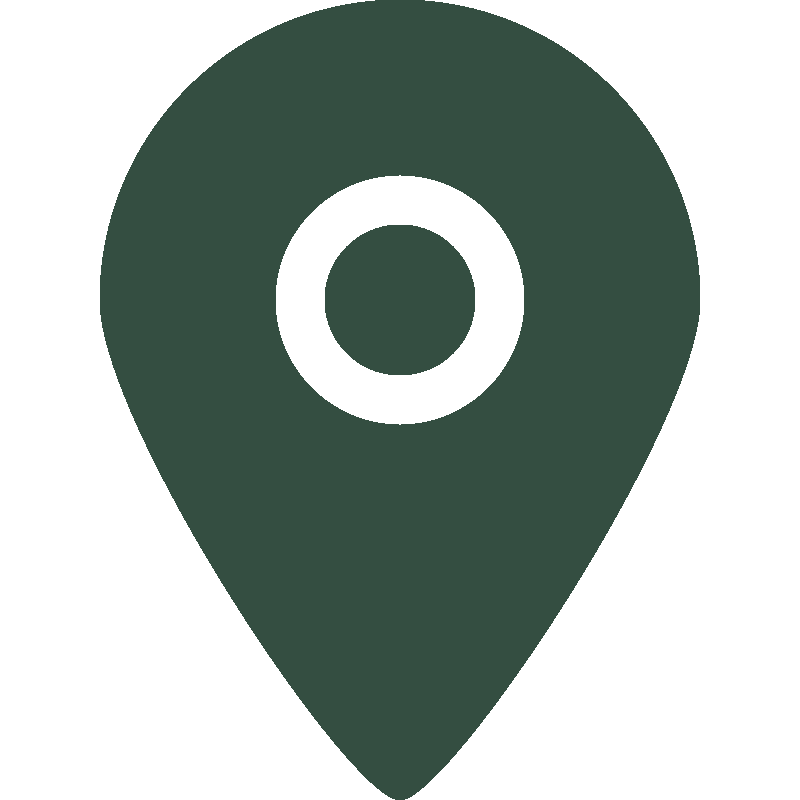
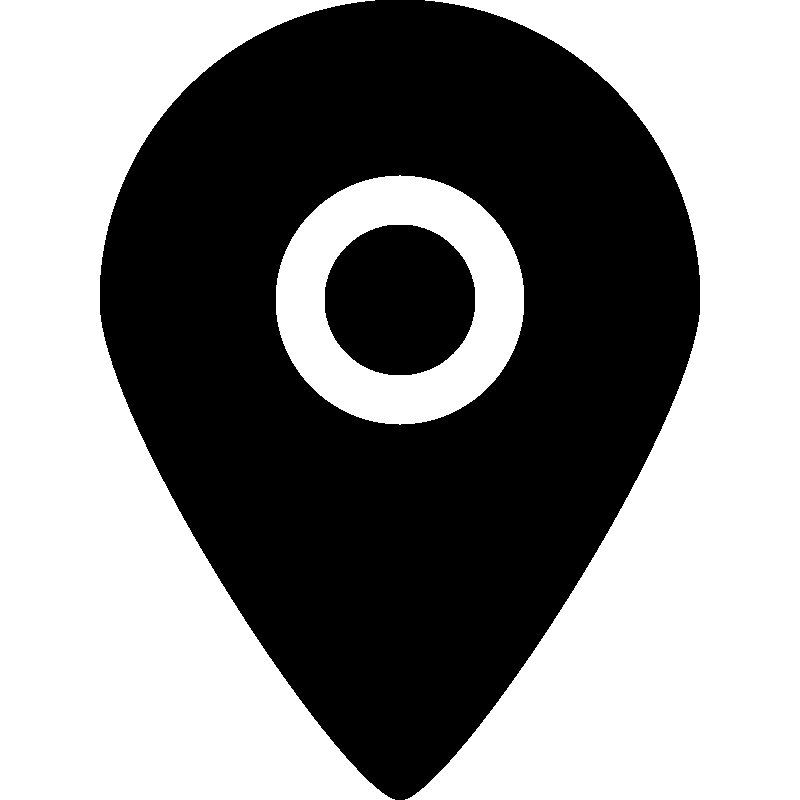
feat: update layout and styles for navbar and improved responsiveness and aesthetics

diff --git a/index.html b/index.html
@@ -7,35 +7,43 @@
     <title>portofolio</title>
     <link rel="stylesheet" href="/src/style.css">
   </head>
-  <body class="bg-earthy-forest-200 text-earthy-forest-1000 dark:bg-earthy-forest-1000 dark:text-earthy-forest-200">
+  <body class="mx-0 bg-primary-white text-primary-navy dark:bg-primary-navy dark:text-primary-white md:mx-27.5">
 
-    <header class="border-b-3 border-b-earthy-forest-600 flex flex-col ">
-      <section class="flex flex-row justify-between ">
+    <header class=" flex flex-col">
+      <section class="flex flex-row justify-between">
 
-        <section id="menu" class="justify-center hover:bg-earthy-forest-400 active:bg-earthy-forest-600">
+        <section id="menu" class="justify-center hover:bg-elegance-palette-orange hover:text-elegance-palette-white md:hidden">
           <button id="btnMenu" class="max-w-10 ml-2 mt-2 mr-2 md:hidden">
             <img src="ui/black/menu-black.png" alt="" id="iconMenu" class="">
           </button>
         </section>
+        <section id="theName" class="flex items-center">
+          <a href="#">
+            <span class="text-lg font-bold hover:text-elegance-palette-orange
+            ml-2">
+              Punari<span class="text-elegance-palette-orange">.</span>
+            </span>
+          </a>
+        </section>
 
         <nav id="navbar" class="hidden md:flex">
-          <ul class="text-lg flex gap-3 md:flex-row">
+          <ul class="text-lg font-semibold flex gap-3 md:flex-row">
             <li class="">
-              <a href="" class="navItem hover:bg-earthy-forest-400 
-              active:bg-earthy-forest-600">Home</a>
+              <a href="#" class="navItem hover:bg-elegance-palette-orange 
+              hover:text-elegance-palette-white">Home</a>
             </li>
             <li>
-              <a href="" class="navItem hover:bg-earthy-forest-400 
-              active:bg-earthy-forest-600">Projects</a>
+              <a href="#" class="navItem hover:bg-elegance-palette-orange 
+              hover:text-elegance-palette-white">Projects</a>
             </li>
             <li>
-              <a href="" class="navItem hover:bg-earthy-forest-400 
-              active:bg-earthy-forest-600">About</a>
+              <a href="#" class="navItem hover:bg-elegance-palette-orange 
+              hover:text-elegance-palette-white">About</a>
             </li>
           </ul>
         </nav>
 
-        <section id="setting" class="justify-center hover:bg-earthy-forest-400 active:bg-earthy-forest-600">
+        <section id="setting" class="justify-center hover:bg-elegance-palette-orange hover:text-elegance-palette-white">
           <button id="btnTheme" class="max-w-10 ml-2 mt-2 mr-2">
             <img src="ui/black/sun-black.png" alt="" id="iconTheme" class="">
           </button>
@@ -46,23 +54,31 @@
         <nav id="navbarBurger" class="hideMenu">
           <ul class="text-lg ">
             <li class="">
-              <a href="" class="navItemBurger hover:bg-earthy-forest-400 
-              active:bg-earthy-forest-600">Home</a>
+              <a href="#" class="navItemBurger hover:bg-elegance-palette-orange 
+              hover:text-elegance-palette-white">Home</a>
             </li>
             <li>
-              <a href="" class="navItemBurger hover:bg-earthy-forest-400 
-              active:bg-earthy-forest-600">Projects</a>
+              <a href="#" class="navItemBurger hover:bg-elegance-palette-orange 
+              hover:text-elegance-palette-white">Projects</a>
             </li>
             <li>
-              <a href="" class="navItemBurger hover:bg-earthy-forest-400 
-              active:bg-earthy-forest-600">About</a>
+              <a href="#" class="navItemBurger hover:bg-elegance-palette-orange 
+              hover:text-elegance-palette-white">About</a>
             </li>
           </ul>
         </nav>
       </section>
     </header>
-    <main>
 
+    <main class="">
+      <section id="heroSection">
+        <div id="heroLeft">
+          <h1></h1>
+        </div>
+        <div id="heroRight">
+
+        </div>
+      </section>
     </main>
     <footer>
       

diff --git a/src/style.css b/src/style.css
@@ -25,11 +25,17 @@
 @custom-variant dark (&:where([data-theme="dark"], [data-theme="dark"] *));
 
 @theme {
-  --color-earthy-forest-200: #dad7cd;
-  --color-earthy-forest-400: #a3b18a;
-  --color-earthy-forest-600: #588157;
-  --color-earthy-forest-800: #3a5a40;
-  --color-earthy-forest-1000: #344e41;
+  --color-elegance-palette-white: #FFFFFF;
+  --color-elegance-palette-grey: #E5E5E5;
+  --color-elegance-palette-orange: #FCA311;
+  --color-elegance-palette-navy: #14213D;
+  --color-elegance-palette-black: #000000;
+
+  --color-primary-navy: var(--color-elegance-palette-navy);
+  --color-primary-white: var(--color-elegance-palette-white);
+  --color-secondary-black: var(--color-elegance-palette-black);
+  --color-secondary-grey: var(--color-elegance-palette-grey);
+  --color-accent-orange: var(--color-elegance-palette-orange);
 }
 
 @layer utilities {
@@ -66,3 +72,6 @@
 
 
 
+@media (width < 40rem) {
+  margin-inline: 0;
+}
